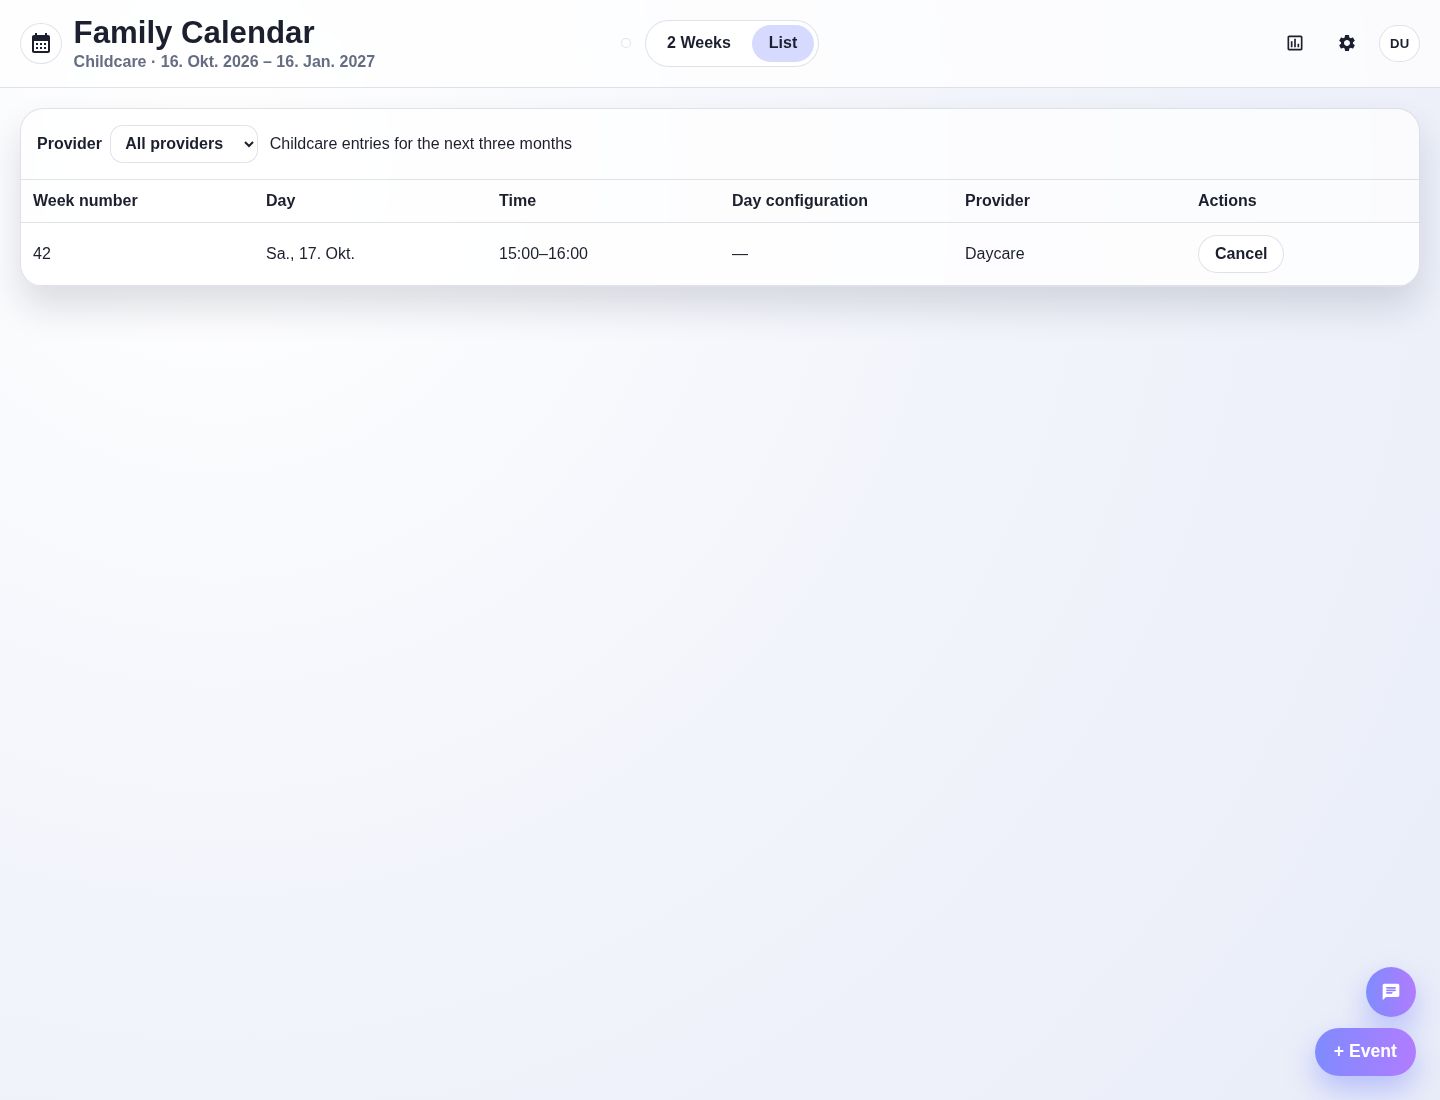
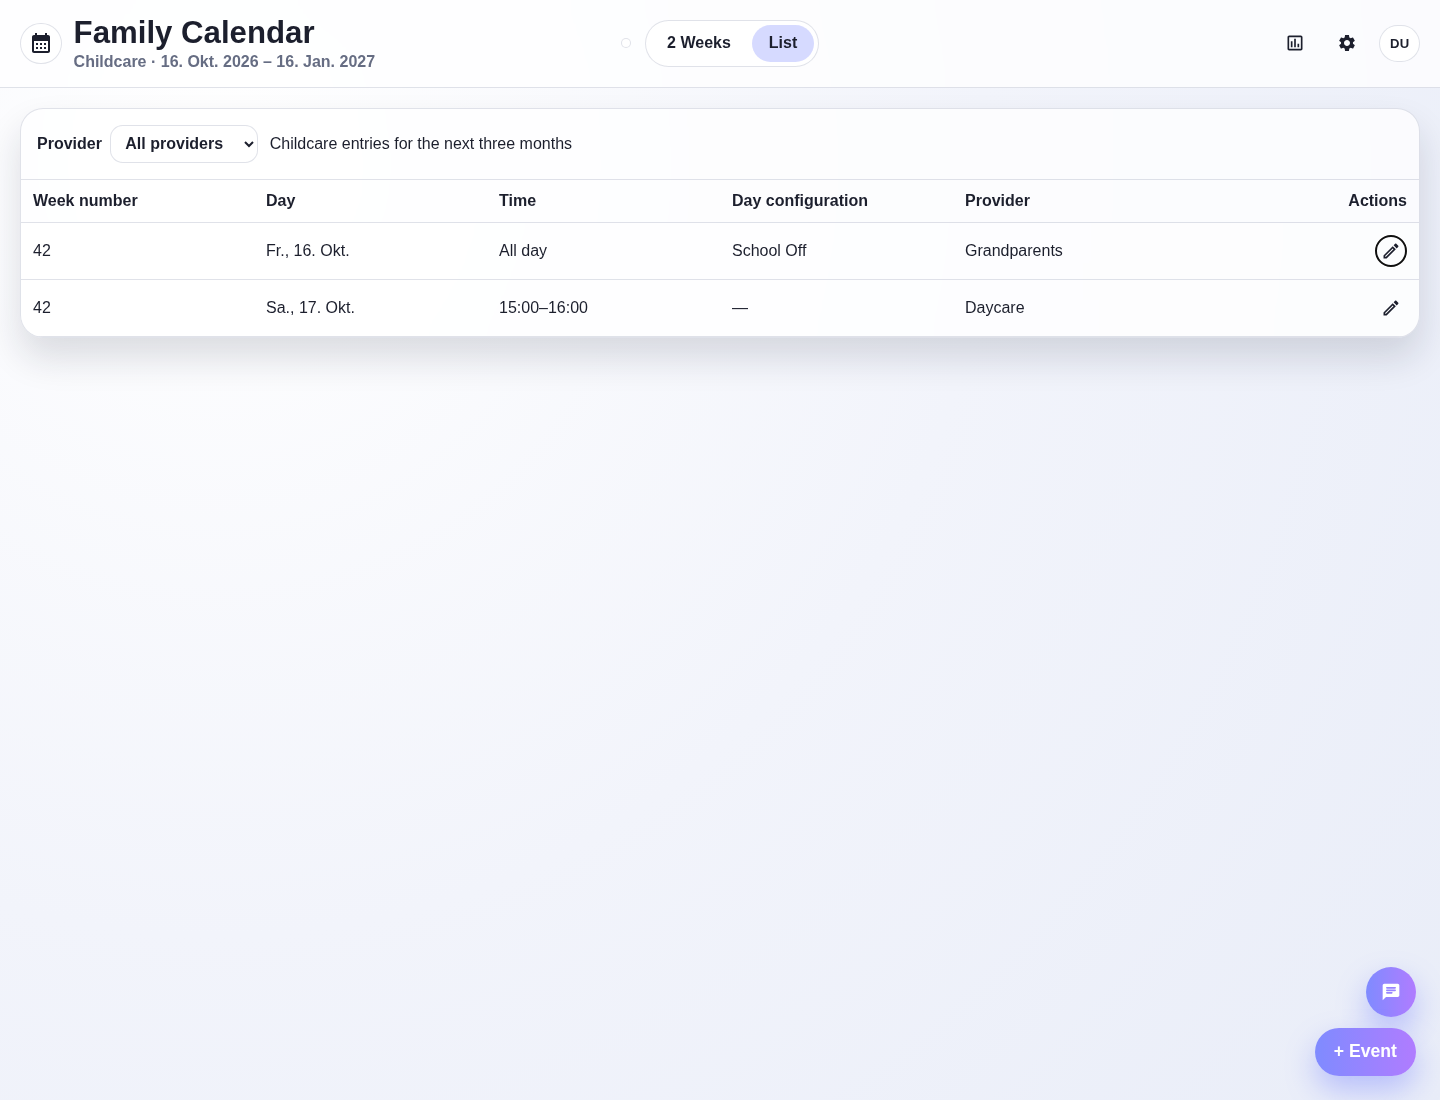
Use edit dialog for childcare list actions

Changed region(s): [[0.0, 0.2164, 1.0, 0.34], [0.9375, 0.1545, 0.9688, 0.1855], [0.8438, 0.1545, 0.875, 0.1855]]

diff --git a/frontend/src/pages/DashboardPage.tsx b/frontend/src/pages/DashboardPage.tsx
@@ -1,4 +1,5 @@
 import { FormEvent, useEffect, useMemo, useRef, useState } from "react";
+import EditOutlinedIcon from "@mui/icons-material/EditOutlined";
 import AccountBalanceIcon from "@mui/icons-material/AccountBalance";
 import AssessmentOutlinedIcon from "@mui/icons-material/AssessmentOutlined";
 import CakeIcon from "@mui/icons-material/Cake";
@@ -10,7 +11,7 @@ import ChevronRightIcon from "@mui/icons-material/ChevronRight";
 import LooksIcon from "@mui/icons-material/Looks";
 import SettingsIcon from "@mui/icons-material/Settings";
 import WbSunnyIcon from "@mui/icons-material/WbSunny";
-import { Fab } from "@mui/material";
+import { Alert, Box, Checkbox, Fab, FormControlLabel, MenuItem, Stack, Typography } from "@mui/material";
 import type { SvgIconProps } from "@mui/material/SvgIcon";
 import { AgentChat } from "../features/agentic/components/AgentChat";
 import { CalendarEventCard } from "../features/dashboard/components/CalendarEventCard";
@@ -19,6 +20,8 @@ import { EventDetailDialog } from "../features/dashboard/components/EventDetailD
 import { ParentingResponsibilityWarning } from "../features/dashboard/components/ParentingResponsibilityWarning";
 import { ParentingAwayBackground } from "../features/dashboard/components/ParentingAwayBackground";
 import { AvatarContextMenu } from "../shared/ui/AvatarContextMenu";
+import { DialogActionsBar, DialogContentPanel, DialogHeader, FormField, GlassDialog, GradientButton, SecondaryButton } from "../shared/ui/GlassFormDialog";
+import { DateField, TimeField } from "../shared/ui/PickerFields";
 import { HouseholdData, NavigationTarget } from "../features/app/types";
 import { Contact, DayConfiguration, DayConfigurationCategory, FamilyMember, HouseholdEvent, ResolvedChildcareOccurrence, ResolvedParentingInterval, ParentingParty } from "../types/family";
 import type { Dispatch, ElementType, ReactNode, SetStateAction } from "react";
@@ -36,6 +39,26 @@ interface SpecialEvent {
 interface DayCellDecorations {
   corners: Array<{ id: string; category: DayConfigurationCategory; marker: string; icon: ElementType<SvgIconProps>; label: string | null }>;
 }
+
+interface ChildcareOccurrenceDraft {
+  occurrence: ResolvedChildcareOccurrence;
+  action: "add" | "cancel" | "replace" | "move";
+  movedDate: string;
+  providerId: string;
+  allDay: boolean;
+  startTime: string | null;
+  endTime: string | null;
+}
+
+const validChildcareTiming = (draft: ChildcareOccurrenceDraft): boolean => draft.allDay || (
+  /^([01]\d|2[0-3]):[0-5]\d$/.test(draft.startTime ?? "")
+  && /^([01]\d|2[0-3]):[0-5]\d$/.test(draft.endTime ?? "")
+  && draft.startTime! < draft.endTime!
+);
+
+const validIsoDate = (date: string): boolean => /^\d{4}-\d{2}-\d{2}$/.test(date)
+  && Number.isFinite(Date.parse(`${date}T00:00:00Z`))
+  && new Date(`${date}T00:00:00Z`).toISOString().slice(0, 10) === date;
 
 function ChildcareCalendarEntry({
   occurrence,
@@ -394,7 +417,8 @@ export function DashboardPage({
   const [periodStart, setPeriodStart] = useState(() => startOfWeekMonday(new Date()));
   const [viewMode, setViewMode] = useState<"two-weeks" | "list">("two-weeks");
   const [selectedProviderId, setSelectedProviderId] = useState("");
-  const [cancellingOccurrenceId, setCancellingOccurrenceId] = useState<string | null>(null);
+  const [childcareMutationId, setChildcareMutationId] = useState<string | null>(null);
+  const [childcareDraft, setChildcareDraft] = useState<ChildcareOccurrenceDraft | null>(null);
   const [childcareActionError, setChildcareActionError] = useState("");
   const [selectedMemberId, setSelectedMemberId] = useState<string | null>(null);
   const [isAvatarMenuOpen, setIsAvatarMenuOpen] = useState(false);
@@ -404,7 +428,7 @@ export function DashboardPage({
   const [eventFormState, setEventFormState] = useState<EventDialogFormState>(() => buildEventFormState(toIsoDate(new Date())));
   const [eventFormSubmitted, setEventFormSubmitted] = useState(false);
   const [childcareOccurrences, setChildcareOccurrences] = useState<ResolvedChildcareOccurrence[]>([]);
-  const [childcareProviders, setChildcareProviders] = useState<Array<[string, string]>>([]);
+  const [childcareProviders, setChildcareProviders] = useState<Array<[string, string, boolean]>>([]);
   const [childcareLoadError, setChildcareLoadError] = useState(false);
   const [parentingIntervals, setParentingIntervals] = useState<ResolvedParentingInterval[]>([]);
   const [parentingParties, setParentingParties] = useState<ParentingParty[]>([]);
@@ -437,24 +461,27 @@ export function DashboardPage({
     const endDate = toIsoDate(days[days.length - 1]);
     setChildcareOccurrences([]);
     setChildcareLoadError(false);
-    fetch(`${API_BASE_URL}/api/households/${encodeURIComponent(householdData.householdId)}/childcare/occurrences?startDate=${startDate}&endDate=${endDate}`, {
-      headers: {
-        Authorization: ["Bearer", accessToken].join(" "),
-        "x-supabase-auth-token": accessToken,
-      },
-      signal: controller.signal,
-    })
-      .then(async (response) => {
-        if (!response.ok) {
-          throw new Error("Childcare could not be loaded");
-        }
-        return response.json() as Promise<{ occurrences?: ResolvedChildcareOccurrence[] }>;
+    const headers = {
+      Authorization: ["Bearer", accessToken].join(" "),
+      "x-supabase-auth-token": accessToken,
+    };
+    Promise.all([
+      fetch(`${API_BASE_URL}/api/households/${encodeURIComponent(householdData.householdId)}/childcare/occurrences?startDate=${startDate}&endDate=${endDate}`, { headers, signal: controller.signal }),
+      fetch(`${API_BASE_URL}/api/households/${encodeURIComponent(householdData.householdId)}/childcare`, { headers, signal: controller.signal }),
+    ])
+      .then(async ([response, providersResponse]) => {
+        if (!response.ok || !providersResponse.ok) throw new Error("Childcare could not be loaded");
+        const [resolved, data] = await Promise.all([
+          response.json() as Promise<{ occurrences?: ResolvedChildcareOccurrence[] }>,
+          providersResponse.json() as Promise<{ providers?: Array<{ id: string; name: string; active: boolean }> }>,
+        ]);
+        return { resolved, providers: Array.isArray(data.providers) ? data.providers : [] };
       })
-      .then((result) => {
-        const occurrences = Array.isArray(result.occurrences) ? result.occurrences : [];
+      .then(({ resolved, providers }) => {
+        const occurrences = Array.isArray(resolved.occurrences) ? resolved.occurrences : [];
         setChildcareOccurrences(occurrences);
-        setChildcareProviders([...new Map(occurrences.map((occurrence) =>
-          [occurrence.providerId, occurrence.providerName ?? "Care provider"])).entries()]
+        setChildcareProviders(providers.map((provider) =>
+          [provider.id, provider.name, provider.active] as [string, string, boolean])
           .sort((left, right) => left[1].localeCompare(right[1])));
       })
       .catch(() => {
@@ -771,9 +798,26 @@ export function DashboardPage({
       + ` – ${new Intl.DateTimeFormat(DEMO_LOCALE, { day: "numeric", month: "short", year: "numeric" }).format(listDays[listDays.length - 1])}`
     : formatPeriodRange(periodStart, DEMO_LOCALE);
   const todayIso = currentDateIso;
-  const cancelChildcareOccurrence = async (occurrence: ResolvedChildcareOccurrence) => {
-    if (cancellingOccurrenceId) return;
-    setCancellingOccurrenceId(occurrence.id);
+  const openChildcareEditor = (occurrence: ResolvedChildcareOccurrence) => {
+    setChildcareActionError("");
+    setChildcareDraft({
+      occurrence,
+      action: occurrence.overrideAction === "add" ? "add" : occurrence.overrideAction === "move" ? "move" : "replace",
+      movedDate: occurrence.date,
+      providerId: occurrence.providerId,
+      allDay: occurrence.allDay,
+      startTime: occurrence.startTime,
+      endTime: occurrence.endTime,
+    });
+  };
+  const saveChildcareOverride = async (event: FormEvent<HTMLFormElement>) => {
+    event.preventDefault();
+    if (!childcareDraft || childcareMutationId) return;
+    if (childcareDraft.action !== "cancel" && !validChildcareTiming(childcareDraft)) return;
+    if (childcareDraft.action === "move"
+      && (!validIsoDate(childcareDraft.movedDate)
+        || childcareDraft.movedDate === childcareDraft.occurrence.originalDate)) return;
+    setChildcareMutationId(childcareDraft.occurrence.id);
     setChildcareActionError("");
     try {
       const response = await fetch(`${API_BASE_URL}/api/households/${encodeURIComponent(householdData.householdId)}/childcare/overrides`, {
@@ -783,14 +827,37 @@ export function DashboardPage({
           "x-supabase-auth-token": accessToken,
           "Content-Type": "application/json",
         },
-        body: JSON.stringify({ arrangementId: occurrence.arrangementId, originalDate: occurrence.originalDate, action: "cancel" }),
+        body: JSON.stringify({
+          arrangementId: childcareDraft.occurrence.arrangementId,
+          originalDate: childcareDraft.occurrence.originalDate,
+          action: childcareDraft.action,
+          ...(childcareDraft.action !== "cancel" ? {
+            providerId: childcareDraft.providerId,
+            allDay: childcareDraft.allDay,
+            startTime: childcareDraft.startTime,
+            endTime: childcareDraft.endTime,
+          } : {}),
+          ...(childcareDraft.action === "move" ? { movedDate: childcareDraft.movedDate } : {}),
+        }),
       });
-      if (!response.ok) throw new Error("Childcare could not be cancelled.");
-      setChildcareOccurrences((current) => current.filter((item) => item.id !== occurrence.id));
+      if (!response.ok) throw new Error("Childcare occurrence could not be changed.");
+      const listDays = buildChildcareListDays(new Date(`${currentDateIso}T00:00:00`));
+      const query = new URLSearchParams({
+        startDate: toIsoDate(listDays[0]),
+        endDate: toIsoDate(listDays[listDays.length - 1]),
+      });
+      const refreshed = await fetch(`${API_BASE_URL}/api/households/${encodeURIComponent(householdData.householdId)}/childcare/occurrences?${query}`, {
+        headers: { Authorization: ["Bearer", accessToken].join(" "), "x-supabase-auth-token": accessToken },
+      });
+      if (!refreshed.ok) throw new Error("Childcare list could not be refreshed.");
+      const result = await refreshed.json() as { occurrences?: ResolvedChildcareOccurrence[] };
+      const occurrences = Array.isArray(result.occurrences) ? result.occurrences : [];
+      setChildcareOccurrences(occurrences);
+      setChildcareDraft(null);
     } catch (error) {
-      setChildcareActionError(error instanceof Error ? error.message : "Childcare could not be cancelled.");
+      setChildcareActionError(error instanceof Error ? error.message : "Childcare occurrence could not be changed.");
     } finally {
-      setCancellingOccurrenceId(null);
+      setChildcareMutationId(null);
     }
   };
   return (
@@ -908,7 +975,9 @@ export function DashboardPage({
               Provider
               <select aria-label="Filter childcare by provider" value={selectedProviderId} onChange={(event) => setSelectedProviderId(event.target.value)}>
                 <option value="">All providers</option>
-                {childcareProviders.map(([id, name]) => <option value={id} key={id}>{name}</option>)}
+                {childcareProviders.map(([id, name, active]) => <option value={id} key={id}>
+                  {name}{!active ? " (Inactive)" : ""}
+                </option>)}
               </select>
             </label> : visibleMembers.map((member) => (
               <Fab
@@ -974,7 +1043,8 @@ export function DashboardPage({
           {viewMode === "list" ? <div className="calendar-scroll">
             {childcareActionError && <p role="alert">{childcareActionError}</p>}
             <div className="table-scroll"><table className="settings-table childcare-list-table" aria-label="Childcare entries">
-              <thead><tr><th>Week number</th><th>Day</th><th>Time</th><th>Day configuration</th><th>Provider</th><th>Actions</th></tr></thead>
+              <thead><tr><th>Week number</th><th>Day</th><th>Time</th><th>Day configuration</th><th>Provider</th>
+                <th className="actions-column">Actions</th></tr></thead>
               <tbody>{filteredChildcareOccurrences.map((occurrence) => {
                 const date = parseDateOnly(occurrence.date);
                 const configurations = (dayDecorationsByDate.get(occurrence.date)?.corners ?? []).map((corner) => {
@@ -988,12 +1058,14 @@ export function DashboardPage({
                   <td>{occurrence.allDay ? "All day" : `${occurrence.startTime ?? ""}–${occurrence.endTime ?? ""}`}</td>
                   <td>{configurations.join(", ") || "—"}</td>
                   <td>{occurrence.providerName ?? "Care provider"}</td>
-                  <td><button type="button" className="primary-pill no-wrap-button"
-                    aria-label={`Cancel childcare for ${occurrence.date} with ${occurrence.providerName ?? "Care provider"}`}
-                    disabled={cancellingOccurrenceId !== null}
-                    onClick={() => void cancelChildcareOccurrence(occurrence)}>
-                    {cancellingOccurrenceId === occurrence.id ? "Cancelling…" : "Cancel"}
-                  </button></td>
+                  <td className="actions-cell"><div className="icon-actions">
+                    <button type="button" className="icon-button compact-icon-button"
+                      aria-label={`Change care on ${occurrence.date} for ${occurrence.providerName ?? "Care provider"}`}
+                      title="Change occurrence" disabled={childcareMutationId !== null}
+                      onClick={() => openChildcareEditor(occurrence)}>
+                      <EditOutlinedIcon fontSize="small" />
+                    </button>
+                  </div></td>
                 </tr>;
               })}</tbody>
             </table></div>
@@ -1170,6 +1242,61 @@ export function DashboardPage({
         }}
         onDelete={deleteViewingEvent}
       />
+      <GlassDialog open={!!childcareDraft} onClose={() => { if (!childcareMutationId) setChildcareDraft(null); }}
+        aria-labelledby="childcare-override-title" maxWidth="sm" fullWidth>
+        {childcareDraft && <Box component="form" onSubmit={(event) => void saveChildcareOverride(event)}>
+          <DialogHeader><Typography id="childcare-override-title" variant="h6">Change one occurrence</Typography></DialogHeader>
+          <DialogContentPanel><Box component="fieldset" disabled={childcareMutationId !== null}
+            sx={{ border: 0, p: 0, m: 0, display: "grid", gap: 2 }}>
+            {childcareActionError && <Alert severity="error">{childcareActionError}</Alert>}
+            <Typography>{childcareDraft.action === "add"
+              ? `Added care date: ${childcareDraft.occurrence.originalDate}. Weekly care remains unchanged.`
+              : `Original scheduled date: ${childcareDraft.occurrence.originalDate}. Weekly care remains unchanged.`}</Typography>
+            {childcareDraft.action === "move" && <Typography>Effective care date: {childcareDraft.movedDate || "Choose a moved date"}.</Typography>}
+            <Typography>Participants: {childcareDraft.occurrence.childIds.map((id) =>
+              orderedMembers.find((member) => member.id === id)?.firstName ?? id).join(", ")}</Typography>
+            <FormField select label="One-off action" value={childcareDraft.action}
+              onChange={(event) => setChildcareDraft({ ...childcareDraft, action: event.target.value as ChildcareOccurrenceDraft["action"] })}>
+              {childcareDraft.action === "add" && <MenuItem value="add">Keep added care day</MenuItem>}
+              <MenuItem value="cancel">Cancel care</MenuItem>
+              {childcareDraft.action !== "add" && <>
+                <MenuItem value="replace">Replace provider / time</MenuItem>
+                <MenuItem value="move">Move care date</MenuItem>
+              </>}
+            </FormField>
+            {childcareDraft.action === "move" && <DateField label="Moved date" required value={childcareDraft.movedDate}
+              onChange={(movedDate) => setChildcareDraft({ ...childcareDraft, movedDate })} />}
+            {childcareDraft.action !== "cancel" && <>
+              <FormField select label="Occurrence provider" value={childcareDraft.providerId}
+                onChange={(event) => setChildcareDraft({ ...childcareDraft, providerId: event.target.value })}>
+                {childcareProviders.filter(([id, , active]) => active || id === childcareDraft.providerId)
+                  .map(([id, name, active]) => <MenuItem key={id} value={id}>
+                    {name}{!active ? " (Inactive)" : ""}
+                  </MenuItem>)}
+              </FormField>
+              <FormControlLabel label="All-day care" control={<Checkbox checked={childcareDraft.allDay}
+                onChange={(_, allDay) => setChildcareDraft({ ...childcareDraft, allDay,
+                  startTime: allDay ? null : "09:00", endTime: allDay ? null : "17:00" })} />} />
+              {!childcareDraft.allDay && <Stack direction={{ xs: "column", sm: "row" }} spacing={2}>
+                <TimeField label="Start time" value={childcareDraft.startTime ?? ""} required
+                  onChange={(startTime) => setChildcareDraft({ ...childcareDraft, startTime: startTime || null })} />
+                <TimeField label="End time" value={childcareDraft.endTime ?? ""} required
+                  onChange={(endTime) => setChildcareDraft({ ...childcareDraft, endTime: endTime || null })} />
+              </Stack>}
+            </>}
+          </Box></DialogContentPanel>
+          <DialogActionsBar>
+            <SecondaryButton variant="outlined" disabled={childcareMutationId !== null}
+              onClick={() => setChildcareDraft(null)}>Close</SecondaryButton>
+            <GradientButton type="submit" disabled={childcareMutationId !== null
+              || (childcareDraft.action !== "cancel" && !validChildcareTiming(childcareDraft))
+              || (childcareDraft.action === "move" && (!childcareDraft.movedDate
+                || childcareDraft.movedDate === childcareDraft.occurrence.originalDate))}>
+              {childcareDraft.action === "add" ? "Save added care day" : "Save one-off change"}
+            </GradientButton>
+          </DialogActionsBar>
+        </Box>}
+      </GlassDialog>
     </div>
   );
 }

diff --git a/frontend/src/pages/DashboardPage.stories.tsx b/frontend/src/pages/DashboardPage.stories.tsx
@@ -34,6 +34,7 @@ const guardianId = "00000000-0000-0000-0000-000000000003";
 const calendarSettingsCalls = fn();
 const childcareCancelCalls = fn();
 const childcareRangeCalls = fn();
+const cancelledChildcareOccurrences = new Set<string>();
 const parentingIntervals: ResolvedParentingInterval[] = [
   { startAt: new Date(`${yesterdayDate}T00:00`).toISOString(), endAt: new Date(`${date}T00:00`).toISOString(),
     partyId: dadId, partyName: "Dad", source: { type: "plan", planId: "plan" } },
@@ -131,10 +132,19 @@ function DashboardStory({ width, unknownResponsibility = false, hatching = false
       const url = typeof input === "string" ? input : input instanceof URL ? input.href : input.url;
       if (url.includes("/childcare/occurrences?")) {
         childcareRangeCalls(new URL(url, window.location.origin).searchParams);
-        return Response.json({ occurrences: childcareOccurrences });
+        return Response.json({ occurrences: childcareOccurrences.filter((item) =>
+          !cancelledChildcareOccurrences.has(`${item.arrangementId}:${item.originalDate}`)) });
+      }
+      if (url.endsWith("/childcare")) {
+        return Response.json({ providers: [
+          { id: "grandparents", name: "Grandparents", active: true },
+          { id: "daycare", name: "Daycare", active: true },
+        ] });
       }
       if (url.endsWith("/childcare/overrides") && init?.method === "PUT") {
-        childcareCancelCalls(JSON.parse(String(init.body)));
+        const override = JSON.parse(String(init.body)) as { arrangementId: string; originalDate: string; action: string };
+        childcareCancelCalls(override);
+        if (override.action === "cancel") cancelledChildcareOccurrences.add(`${override.arrangementId}:${override.originalDate}`);
         return Response.json({ ok: true });
       }
       if (url.includes("/parenting-time/resolve?")) {
@@ -389,7 +399,14 @@ export const ChildcareList: Story = {
     await expect(table.getByText("Daycare")).toBeVisible();
     await expect(table.queryByText("Grandparents")).toBeNull();
     await userEvent.selectOptions(providerFilter, "");
-    await userEvent.click(table.getByRole("button", { name: `Cancel childcare for ${date} with Grandparents` }));
+    const editButton = table.getByRole("button", { name: `Change care on ${date} for Grandparents` });
+    await expect(editButton.closest("td")).toHaveClass("actions-cell");
+    await userEvent.click(editButton);
+    const dialog = within(canvasElement.ownerDocument.body);
+    await expect(dialog.getByRole("heading", { name: "Change one occurrence" })).toBeVisible();
+    await userEvent.click(dialog.getByRole("combobox", { name: "One-off action" }));
+    await userEvent.click(dialog.getByRole("option", { name: "Cancel care" }));
+    await userEvent.click(dialog.getByRole("button", { name: "Save one-off change" }));
     await expect(childcareCancelCalls).toHaveBeenCalledWith({
       arrangementId: "grandparents-arrangement",
       originalDate: yesterdayDate,
